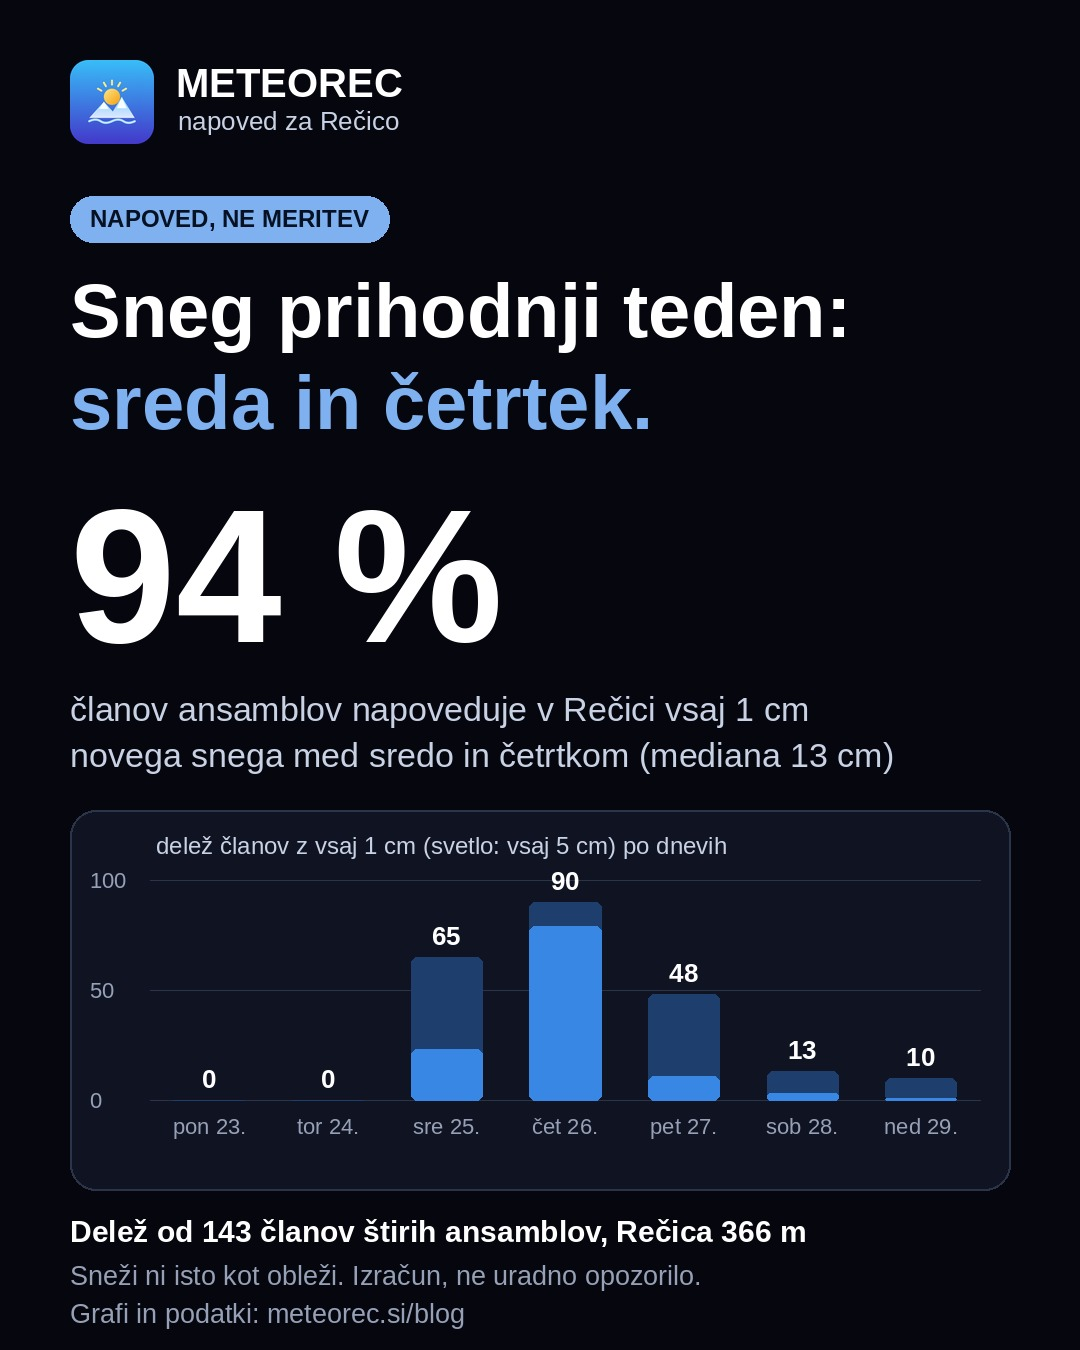
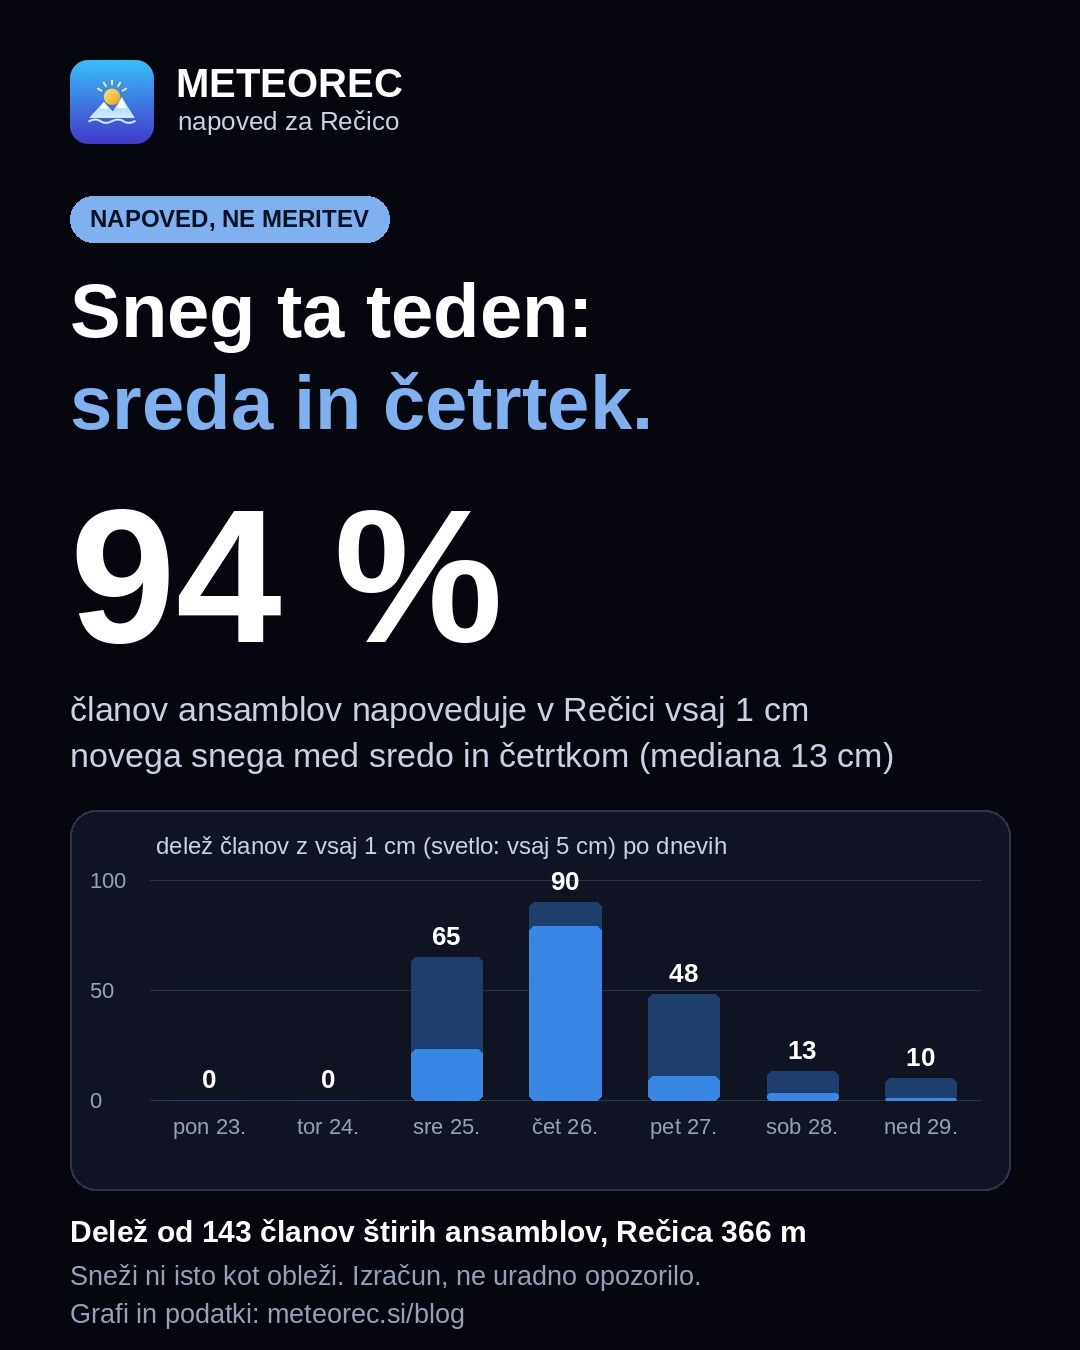
Članek o snegu: »ta teden« namesto »prihodnji teden« (od ponedeljka), kartica in besedila
Claude-Session: https://claude.ai/code/session_01WWkqmgUoFwBSRyTuAjUpxi

Changed region(s): [[0.2444, 0.1867, 0.55, 0.28], [0.5806, 0.2178, 0.7944, 0.2489]]

diff --git a/blog/sneg-prihodnji-teden-sreda-cetrtek-1121.html b/blog/sneg-prihodnji-teden-sreda-cetrtek-1121.html
@@ -17,19 +17,19 @@ j=d.createElement(s),dl=l!='dataLayer'?'&l='+l:'';j.async=true;j.src=
   gtag('config', 'G-LE8PJ1HR8B');
 </script>
 <meta name="viewport" content="width=device-width, initial-scale=1.0">
-<title>Sneg prihodnji teden: v dolini kaže na sredo in četrtek</title>
+<title>Sneg ta teden: v dolini kaže na sredo in četrtek | Meteorec</title>
 <link rel="canonical" href="https://meteorec.si/blog/sneg-prihodnji-teden-sreda-cetrtek-1121.html">
 <link rel="alternate" hreflang="sl" href="https://meteorec.si/blog/sneg-prihodnji-teden-sreda-cetrtek-1121.html">
 <link rel="alternate" hreflang="x-default" href="https://meteorec.si/blog/sneg-prihodnji-teden-sreda-cetrtek-1121.html">
-<meta name="description" content="Bo prihodnji teden sneg? V Rečici ga za sredo in četrtek napoveduje 94 % članov ansamblov, mediana je 13 cm. Kdaj, koliko in na katerih višinah?">
+<meta name="description" content="Bo ta teden sneg? V Rečici ga za sredo in četrtek napoveduje 94 % članov ansamblov, mediana je 13 cm. Kdaj, koliko in na katerih višinah?">
 <meta name="keywords" content="sneg, nižine, Golte, napoved, november, ansambli">
 <meta name="robots" content="index, follow, max-image-preview:large">
 <meta name="author" content="Filip Eremita">
 <meta property="og:type" content="article">
 <meta property="og:url" content="https://meteorec.si/blog/sneg-prihodnji-teden-sreda-cetrtek-1121.html">
 <meta property="og:site_name" content="Meteorec">
-<meta property="og:title" content="Sneg prihodnji teden: v dolini kaže na sredo in četrtek">
-<meta property="og:description" content="Bo prihodnji teden sneg? V Rečici ga za sredo in četrtek napoveduje 94 % članov ansamblov, mediana je 13 cm. Kdaj, koliko in na katerih višinah?">
+<meta property="og:title" content="Sneg ta teden: v dolini kaže na sredo in četrtek">
+<meta property="og:description" content="Bo ta teden sneg? V Rečici ga za sredo in četrtek napoveduje 94 % članov ansamblov, mediana je 13 cm. Kdaj, koliko in na katerih višinah?">
 <meta property="og:image" content="https://meteorec.si/og/sneg-prihodnji-teden-sreda-cetrtek-1121.jpg">
 <meta property="og:image:width" content="1200">
 <meta property="og:image:height" content="630">
@@ -38,15 +38,15 @@ j=d.createElement(s),dl=l!='dataLayer'?'&l='+l:'';j.async=true;j.src=
 <meta property="article:author" content="Filip Eremita">
 <meta property="article:section" content="Podatkovna analiza">
 <meta name="twitter:card" content="summary_large_image">
-<meta name="twitter:title" content="Sneg prihodnji teden: v dolini kaže na sredo in četrtek">
-<meta name="twitter:description" content="Bo prihodnji teden sneg? V Rečici ga za sredo in četrtek napoveduje 94 % članov ansamblov, mediana je 13 cm. Kdaj, koliko in na katerih višinah?">
+<meta name="twitter:title" content="Sneg ta teden: v dolini kaže na sredo in četrtek">
+<meta name="twitter:description" content="Bo ta teden sneg? V Rečici ga za sredo in četrtek napoveduje 94 % članov ansamblov, mediana je 13 cm. Kdaj, koliko in na katerih višinah?">
 <meta name="twitter:image" content="https://meteorec.si/og/sneg-prihodnji-teden-sreda-cetrtek-1121.jpg">
 <script type="application/ld+json">
 {
   "@context": "https://schema.org",
   "@type": "BlogPosting",
-  "headline": "Sneg prihodnji teden: v dolini kaže na sredo in četrtek",
-  "description": "Bo prihodnji teden sneg? V Rečici ga za sredo in četrtek napoveduje 94 % članov ansamblov, mediana je 13 cm. Kdaj, koliko in na katerih višinah?",
+  "headline": "Sneg ta teden: v dolini kaže na sredo in četrtek",
+  "description": "Bo ta teden sneg? V Rečici ga za sredo in četrtek napoveduje 94 % članov ansamblov, mediana je 13 cm. Kdaj, koliko in na katerih višinah?",
   "image": { "@type": "ImageObject", "url": "https://meteorec.si/og/sneg-prihodnji-teden-sreda-cetrtek-1121.jpg", "width": 1200, "height": 630 },
   "datePublished": "2026-11-21T09:08:35.130828+00:00",
   "dateModified": "2026-11-23",
@@ -79,12 +79,12 @@ height="0" width="0" style="display:none;visibility:hidden"></iframe></noscript>
   </header>
 
   <nav class="crumbs" aria-label="Drobtine">
-    <a href="/">Meteorec</a> › <a href="/blog/">Blog</a> › Sneg prihodnji teden: v dolini kaže na sredo in četrtek
+    <a href="/">Meteorec</a> › <a href="/blog/">Blog</a> › Sneg ta teden: v dolini kaže na sredo in četrtek
   </nav>
 
   <article>
     <div class="stn-badge"><span></span> Podatkovna analiza</div>
-    <h1>Sneg prihodnji teden: v dolini kaže na sredo in četrtek</h1>
+    <h1>Sneg ta teden: v dolini kaže na sredo in četrtek</h1>
     <p class="post-meta">21. novembra 2026 · Filip Eremita · podatkovna analiza</p>
 
     <style>
@@ -102,7 +102,7 @@ height="0" width="0" style="display:none;visibility:hidden"></iframe></noscript>
 .sn-tile.sn-warn b{color:#fbbf24}
 .vs-note{color:var(--muted);font-size:.82rem;line-height:1.5;margin:-.4rem 0 1.2rem}
 .sg-m{fill:var(--muted)}.sg-i{fill:var(--text)}.sg-g{stroke:var(--card-border)}.sg-z{stroke:var(--text)}.tn-wrap{overflow-x:auto;margin:.2rem 0 .6rem}.tn-tbl{border-collapse:collapse;width:100%;min-width:440px;font-size:.9rem;font-variant-numeric:tabular-nums}.tn-tbl th,.tn-tbl td{padding:.45rem .6rem;border-bottom:1px solid var(--card-border);text-align:right;color:var(--text)}.tn-tbl th:first-child,.tn-tbl td:first-child{text-align:left}.tn-tbl th{font-weight:600;color:var(--muted);font-size:.8rem}.tn-tbl .tn-na{color:var(--muted)}.tn-photo-v{max-width:440px;margin-left:auto;margin-right:auto}</style>
-<p class="lead">Da. Po današnjih izračunih bo v Rečici prihodnji teden snežilo, najverjetneje od srede dopoldne do četrtka. Vsaj 1 cm novega snega med sredo in četrtkom skupaj napoveduje 94 % od skupno 143 članov ansamblov, mediana količine pa znaša 13 cm. Danes in jutri snega v dolini ni pričakovati.</p>
+<p class="lead">Da. Po današnjih izračunih bo v Rečici ta teden snežilo, najverjetneje od srede dopoldne do četrtka. Vsaj 1 cm novega snega med sredo in četrtkom skupaj napoveduje 94 % od skupno 143 članov ansamblov, mediana količine pa znaša 13 cm. Danes in jutri snega v dolini ni pričakovati.</p>
     <span class="section-label">01 — odgovor</span>
     <h2 id="odgovor">Da: v sredo in v četrtek</h2>
 <p class="vs-note" style="border-left:3px solid var(--blue);padding-left:.8rem;margin:1rem 0"><strong>Posodobljeno v ponedeljek, 23. 11., ob 18. uri z novimi zagoni modelov.</strong> Razvoj izračuna (delež članov z vsaj 1 cm novega snega, mediana količine, prvi sneg): v soboto ob 9. uri 91 %, 12 cm, v sredo okoli 15. ure; v soboto ob 23. uri 96 %, 16 cm, v sredo okoli 11. ure; v nedeljo ob 10. uri 98 %, 17 cm, v sredo okoli 11. ure; v ponedeljek ob 6. uri 98 %, 14 cm, v sredo okoli 12. ure. Zdaj izračun kaže 94 %, mediano 13 cm in prvi sneg v sredo okoli 8. ure: napoved se je v primerjavi z zadnjo različico premaknila v smer manj snega. Vse številke in grafi v članku so iz zadnjega izračuna.</p>

diff --git a/blog/index.html b/blog/index.html
@@ -261,11 +261,11 @@ height="0" width="0" style="display:none;visibility:hidden"></iframe></noscript>
   <ul class="post-list">
     <li>
       <a class="post-card" href="sneg-prihodnji-teden-sreda-cetrtek-1121.html">
-        <img class="post-thumb" src="/og/t/sneg-prihodnji-teden-sreda-cetrtek-1121.jpg" alt="Sneg prihodnji teden: v dolini kaže na sredo in četrtek" width="260" height="260" loading="eager" fetchpriority="high">
+        <img class="post-thumb" src="/og/t/sneg-prihodnji-teden-sreda-cetrtek-1121.jpg" alt="Sneg ta teden: v dolini kaže na sredo in četrtek" width="260" height="260" loading="eager" fetchpriority="high">
         <div class="post-card-body">
           <div class="date">21. novembra 2026 <span class="post-updated" title="Posodobljeno 23. novembra 2026">☁</span></div>
-          <h2>Sneg prihodnji teden: v dolini kaže na sredo in četrtek</h2>
-          <p>Bo prihodnji teden sneg? V Rečici ga za sredo in četrtek napoveduje 94 % članov ansamblov, mediana je 13 cm. Kdaj, koliko in na katerih višinah?</p>
+          <h2>Sneg ta teden: v dolini kaže na sredo in četrtek</h2>
+          <p>Bo ta teden sneg? V Rečici ga za sredo in četrtek napoveduje 94 % članov ansamblov, mediana je 13 cm. Kdaj, koliko in na katerih višinah?</p>
         </div>
       </a>
     </li>

diff --git a/blog/tema/ansambli/index.html b/blog/tema/ansambli/index.html
@@ -45,11 +45,11 @@
   <ul class="post-list">
     <li>
       <a class="post-card" href="/blog/sneg-prihodnji-teden-sreda-cetrtek-1121.html">
-        <img class="post-thumb" src="/og/t/sneg-prihodnji-teden-sreda-cetrtek-1121.jpg" alt="Sneg prihodnji teden: v dolini kaže na sredo in četrtek" width="260" height="260" loading="eager" fetchpriority="high">
+        <img class="post-thumb" src="/og/t/sneg-prihodnji-teden-sreda-cetrtek-1121.jpg" alt="Sneg ta teden: v dolini kaže na sredo in četrtek" width="260" height="260" loading="eager" fetchpriority="high">
         <div class="post-card-body">
           <div class="date">21. novembra 2026</div>
-          <h2>Sneg prihodnji teden: v dolini kaže na sredo in četrtek</h2>
-          <p>Bo prihodnji teden sneg? V Rečici ga za sredo in četrtek napoveduje 94 % članov ansamblov, mediana je 13 cm. Kdaj, koliko in na katerih višinah?</p>
+          <h2>Sneg ta teden: v dolini kaže na sredo in četrtek</h2>
+          <p>Bo ta teden sneg? V Rečici ga za sredo in četrtek napoveduje 94 % članov ansamblov, mediana je 13 cm. Kdaj, koliko in na katerih višinah?</p>
         </div>
       </a>
     </li>

diff --git a/blog/tema/golte/index.html b/blog/tema/golte/index.html
@@ -45,11 +45,11 @@
   <ul class="post-list">
     <li>
       <a class="post-card" href="/blog/sneg-prihodnji-teden-sreda-cetrtek-1121.html">
-        <img class="post-thumb" src="/og/t/sneg-prihodnji-teden-sreda-cetrtek-1121.jpg" alt="Sneg prihodnji teden: v dolini kaže na sredo in četrtek" width="260" height="260" loading="eager" fetchpriority="high">
+        <img class="post-thumb" src="/og/t/sneg-prihodnji-teden-sreda-cetrtek-1121.jpg" alt="Sneg ta teden: v dolini kaže na sredo in četrtek" width="260" height="260" loading="eager" fetchpriority="high">
         <div class="post-card-body">
           <div class="date">21. novembra 2026</div>
-          <h2>Sneg prihodnji teden: v dolini kaže na sredo in četrtek</h2>
-          <p>Bo prihodnji teden sneg? V Rečici ga za sredo in četrtek napoveduje 94 % članov ansamblov, mediana je 13 cm. Kdaj, koliko in na katerih višinah?</p>
+          <h2>Sneg ta teden: v dolini kaže na sredo in četrtek</h2>
+          <p>Bo ta teden sneg? V Rečici ga za sredo in četrtek napoveduje 94 % članov ansamblov, mediana je 13 cm. Kdaj, koliko in na katerih višinah?</p>
         </div>
       </a>
     </li>

diff --git a/blog/tema/napoved/index.html b/blog/tema/napoved/index.html
@@ -45,11 +45,11 @@
   <ul class="post-list">
     <li>
       <a class="post-card" href="/blog/sneg-prihodnji-teden-sreda-cetrtek-1121.html">
-        <img class="post-thumb" src="/og/t/sneg-prihodnji-teden-sreda-cetrtek-1121.jpg" alt="Sneg prihodnji teden: v dolini kaže na sredo in četrtek" width="260" height="260" loading="eager" fetchpriority="high">
+        <img class="post-thumb" src="/og/t/sneg-prihodnji-teden-sreda-cetrtek-1121.jpg" alt="Sneg ta teden: v dolini kaže na sredo in četrtek" width="260" height="260" loading="eager" fetchpriority="high">
         <div class="post-card-body">
           <div class="date">21. novembra 2026</div>
-          <h2>Sneg prihodnji teden: v dolini kaže na sredo in četrtek</h2>
-          <p>Bo prihodnji teden sneg? V Rečici ga za sredo in četrtek napoveduje 94 % članov ansamblov, mediana je 13 cm. Kdaj, koliko in na katerih višinah?</p>
+          <h2>Sneg ta teden: v dolini kaže na sredo in četrtek</h2>
+          <p>Bo ta teden sneg? V Rečici ga za sredo in četrtek napoveduje 94 % članov ansamblov, mediana je 13 cm. Kdaj, koliko in na katerih višinah?</p>
         </div>
       </a>
     </li>

diff --git a/blog/tema/nizine/index.html b/blog/tema/nizine/index.html
@@ -45,11 +45,11 @@
   <ul class="post-list">
     <li>
       <a class="post-card" href="/blog/sneg-prihodnji-teden-sreda-cetrtek-1121.html">
-        <img class="post-thumb" src="/og/t/sneg-prihodnji-teden-sreda-cetrtek-1121.jpg" alt="Sneg prihodnji teden: v dolini kaže na sredo in četrtek" width="260" height="260" loading="eager" fetchpriority="high">
+        <img class="post-thumb" src="/og/t/sneg-prihodnji-teden-sreda-cetrtek-1121.jpg" alt="Sneg ta teden: v dolini kaže na sredo in četrtek" width="260" height="260" loading="eager" fetchpriority="high">
         <div class="post-card-body">
           <div class="date">21. novembra 2026</div>
-          <h2>Sneg prihodnji teden: v dolini kaže na sredo in četrtek</h2>
-          <p>Bo prihodnji teden sneg? V Rečici ga za sredo in četrtek napoveduje 94 % članov ansamblov, mediana je 13 cm. Kdaj, koliko in na katerih višinah?</p>
+          <h2>Sneg ta teden: v dolini kaže na sredo in četrtek</h2>
+          <p>Bo ta teden sneg? V Rečici ga za sredo in četrtek napoveduje 94 % članov ansamblov, mediana je 13 cm. Kdaj, koliko in na katerih višinah?</p>
         </div>
       </a>
     </li>

diff --git a/blog/tema/november/index.html b/blog/tema/november/index.html
@@ -45,11 +45,11 @@
   <ul class="post-list">
     <li>
       <a class="post-card" href="/blog/sneg-prihodnji-teden-sreda-cetrtek-1121.html">
-        <img class="post-thumb" src="/og/t/sneg-prihodnji-teden-sreda-cetrtek-1121.jpg" alt="Sneg prihodnji teden: v dolini kaže na sredo in četrtek" width="260" height="260" loading="eager" fetchpriority="high">
+        <img class="post-thumb" src="/og/t/sneg-prihodnji-teden-sreda-cetrtek-1121.jpg" alt="Sneg ta teden: v dolini kaže na sredo in četrtek" width="260" height="260" loading="eager" fetchpriority="high">
         <div class="post-card-body">
           <div class="date">21. novembra 2026</div>
-          <h2>Sneg prihodnji teden: v dolini kaže na sredo in četrtek</h2>
-          <p>Bo prihodnji teden sneg? V Rečici ga za sredo in četrtek napoveduje 94 % članov ansamblov, mediana je 13 cm. Kdaj, koliko in na katerih višinah?</p>
+          <h2>Sneg ta teden: v dolini kaže na sredo in četrtek</h2>
+          <p>Bo ta teden sneg? V Rečici ga za sredo in četrtek napoveduje 94 % članov ansamblov, mediana je 13 cm. Kdaj, koliko in na katerih višinah?</p>
         </div>
       </a>
     </li>

diff --git a/blog/tema/sneg/index.html b/blog/tema/sneg/index.html
@@ -45,11 +45,11 @@
   <ul class="post-list">
     <li>
       <a class="post-card" href="/blog/sneg-prihodnji-teden-sreda-cetrtek-1121.html">
-        <img class="post-thumb" src="/og/t/sneg-prihodnji-teden-sreda-cetrtek-1121.jpg" alt="Sneg prihodnji teden: v dolini kaže na sredo in četrtek" width="260" height="260" loading="eager" fetchpriority="high">
+        <img class="post-thumb" src="/og/t/sneg-prihodnji-teden-sreda-cetrtek-1121.jpg" alt="Sneg ta teden: v dolini kaže na sredo in četrtek" width="260" height="260" loading="eager" fetchpriority="high">
         <div class="post-card-body">
           <div class="date">21. novembra 2026</div>
-          <h2>Sneg prihodnji teden: v dolini kaže na sredo in četrtek</h2>
-          <p>Bo prihodnji teden sneg? V Rečici ga za sredo in četrtek napoveduje 94 % članov ansamblov, mediana je 13 cm. Kdaj, koliko in na katerih višinah?</p>
+          <h2>Sneg ta teden: v dolini kaže na sredo in četrtek</h2>
+          <p>Bo ta teden sneg? V Rečici ga za sredo in četrtek napoveduje 94 % članov ansamblov, mediana je 13 cm. Kdaj, koliko in na katerih višinah?</p>
         </div>
       </a>
     </li>

diff --git a/tools/generate_sneg_teden_post.py b/tools/generate_sneg_teden_post.py
@@ -37,6 +37,12 @@ STYLE = BASE_STYLE.replace("</style>", ".sg-m{fill:var(--muted)}.sg-i{fill:var(-
 ROOT = os.path.dirname(os.path.dirname(os.path.abspath(__file__)))
 DATA = os.path.join(ROOT, "data", "sneg-teden-1121.json")
 SLUG = "sneg-prihodnji-teden-sreda-cetrtek-1121"
+
+
+def teden_word():
+    """Od ponedeljka 23. 11. je sreda/četrtek že »ta teden« (članek je nastal v soboto, ko je bil »prihodnji«)."""
+    return "ta teden" if datetime.date.today() >= datetime.date(2026, 11, 23) else "prihodnji teden"
+
 TEXT_OUT = os.path.join(ROOT, "docs", "lektura-sneg-teden.txt")
 NBSP = " "
 LINK = 'style="color:var(--blue)"'
@@ -414,7 +420,7 @@ def build_article(S):
         (temp(tue["tmin"], 0).replace(NBSP + "°C", ""), "°C", f"najnižja temperatura v torek zjutraj po modelu MTR; verjetnost zmrzali (najnižja temperatura 0 °C ali manj) je po modelu {rnd(tue['p_frost'] * 100)} %", False),
     ])
 
-    lead = (f"Da. Po današnjih izračunih bo v Rečici prihodnji teden snežilo, najverjetneje od srede {fp} do četrtka. "
+    lead = (f"Da. Po današnjih izračunih bo v Rečici {teden_word()} snežilo, najverjetneje od srede {fp} do četrtka. "
             f"Vsaj 1 cm novega snega med sredo in četrtkom skupaj napoveduje {pc(w2['cm1'])} od skupno {S.n} članov ansamblov, mediana količine pa znaša {rnd(w2['med'])} cm. "
             f"{dva_dni.capitalize()} snega v dolini ni pričakovati.")
 
@@ -578,9 +584,9 @@ def build_article(S):
         'in neposredne povezave na ta članek. Za prepis ali vdelavo grafov in izračunov se predhodno dogovorite z avtorjem.</p>',
     ]
 
-    title = "Sneg prihodnji teden: v dolini kaže na sredo in četrtek"
+    title = f"Sneg {teden_word()}: v dolini kaže na sredo in četrtek"
     assert len(title) <= 60, len(title)
-    desc = (f"Bo prihodnji teden sneg? V Rečici ga za sredo in četrtek napoveduje {w2['cm1']} % članov ansamblov, mediana je {rnd(w2['med'])} cm. "
+    desc = (f"Bo {teden_word()} sneg? V Rečici ga za sredo in četrtek napoveduje {w2['cm1']} % članov ansamblov, mediana je {rnd(w2['med'])} cm. "
             "Kdaj, koliko in na katerih višinah?")
     assert len(desc) <= 160, len(desc)
     sections = [
@@ -654,7 +660,7 @@ def main():
     ftp.TODAY = prev_entry["date"] if prev_entry else today.isoformat()
     slug, html, entry, og_meta = ftp.build_html(
         article, today.year, today.month, now_utc, slug=SLUG, back=("/blog/", "← Vsi članki"),
-        og_title="Sneg prihodnji teden:\nsreda in četrtek", meta_note="podatkovna analiza",
+        og_title=f"Sneg {teden_word()}:\nsreda in četrtek", meta_note="podatkovna analiza",
         nav_label="O postaji", nav_href="/o-postaji.html")
     lead = f'<p class="lead">{article["lead"]}</p>'
     assert html.count(lead) == 1, "uvoda ni mogoče najti za vstavitev sloga"
@@ -678,6 +684,7 @@ def main():
         from generate_monthly_post import wire_all, touch_existing
         if prev_entry and prev_entry["date"] != today.isoformat():     # posodobitev kasnejši dan: `updated`, izvirni datum ostane
             prev_entry["summary"] = entry["summary"]
+            prev_entry["title"] = entry["title"]
             json.dump(posts, open(os.path.join(ROOT, "blog.json"), "w", encoding="utf-8"), ensure_ascii=False, indent=2)
             touch_existing(SLUG, wire=True)
         else:                                                          # isti dan kot objava: vnos se osveži (povzetek)

diff --git a/tools/generate_sneg_teden_card_variants.py b/tools/generate_sneg_teden_card_variants.py
@@ -60,7 +60,7 @@ def v1(S):
     img, d = canvas()
     header(img, d, "napoved za Rečico", thumb=False)
     badge(d, "NAPOVED, NE MERITEV")
-    d.text((PAD, 268), "Sneg prihodnji teden:", font=font(B, 76), fill=WHITE)
+    d.text((PAD, 268), f"Sneg {post.teden_word()}:", font=font(B, 76), fill=WHITE)
     d.text((PAD, 360), "sreda in četrtek.", font=font(B, 76), fill=ICE)
     d.text((PAD, 470), f"{w2['cm1']} %", font=font(B, 190), fill=WHITE)
     d.text((PAD, 690), "članov ansamblov napoveduje v Rečici vsaj 1 cm", font=font(R, 34), fill=MUTED)

diff --git a/docs/fb-sneg-teden.md b/docs/fb-sneg-teden.md
@@ -1,4 +1,4 @@
-# FB/IG objave: »Sneg prihodnji teden: v dolini kaže na sredo in četrtek« (21. 11. 2026)
+# FB/IG objave: »Sneg ta teden: v dolini kaže na sredo in četrtek« (21. 11. 2026)
 
 Štiri kartice 1080×1350 (`og/sneg-prihodnji-teden-sreda-cetrtek-1121-kartica-N.jpg`, izdela jih
 `python3 tools/generate_sneg_teden_card_variants.py`) in besedilo za vsako. Pisano po `docs/slog-pisanja.md`
@@ -23,9 +23,9 @@ Za arhivske fotografije v članku (ne na karticah) velja podpis »ilustracija«.
 
 ---
 
-## Kartica 1 — »Sneg prihodnji teden: sreda in četrtek« (94 %)
+## Kartica 1 — »Sneg ta teden: sreda in četrtek« (94 %)
 
-❄ Bo prihodnji teden sneg? Po današnjih izračunih v dolini da.
+❄ Bo ta teden sneg? Po današnjih izračunih v dolini da.
 
 Vsaj 1 cm novega snega v Rečici med sredo in četrtkom napoveduje 94 % od 143 članov ansamblov, mediana je 13 cm. Danes in jutri snega v dolini ni pričakovati.
 
